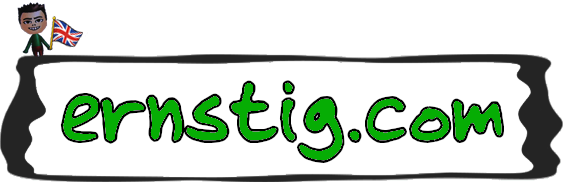
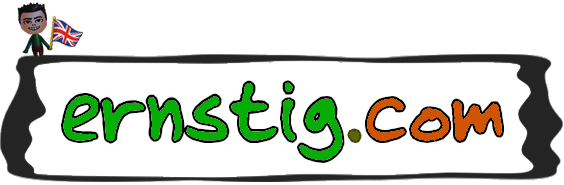
more colors!

Changed region(s): [[0.6028, 0.5135, 0.9043, 0.7838]]

diff --git a/index.html b/index.html
@@ -21,7 +21,7 @@
 		function switchLanguage(language) {
 
 			const textEN = "<ul>" +
-				"It's quiet here, but very nice to see you anyway!<br>";
+				"It's quiet here, but it's nice to see you anyway!<br>";
 
 			const textNL = "<ul>" +
 				"Hier is weinig te doen, maar leuk dat je er bent!<br>";	

diff --git a/css/style.css b/css/style.css
@@ -90,7 +90,7 @@ a.contact-link:hover {
 }
 
 body {
-  background: linear-gradient(to left top, #958d7c, #939894, #647064);
+  background: linear-gradient(to left top, #958d7c, #546256, #9aac9a);
 }
 
 ul.sublist {
